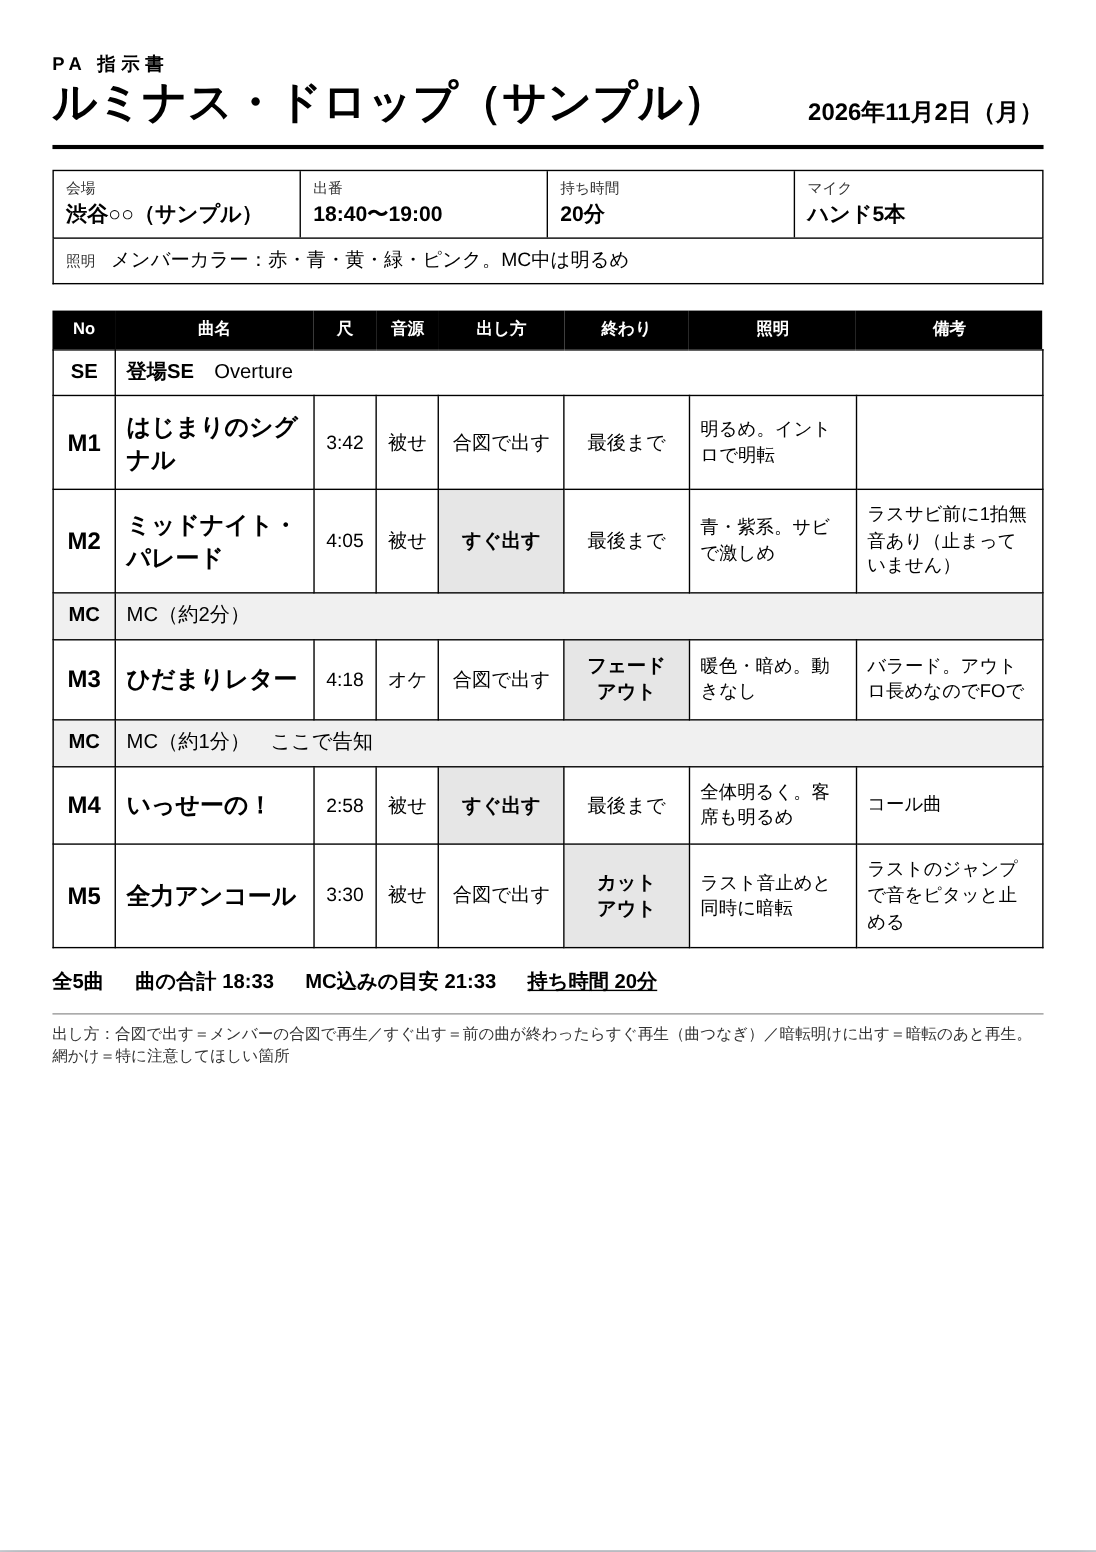
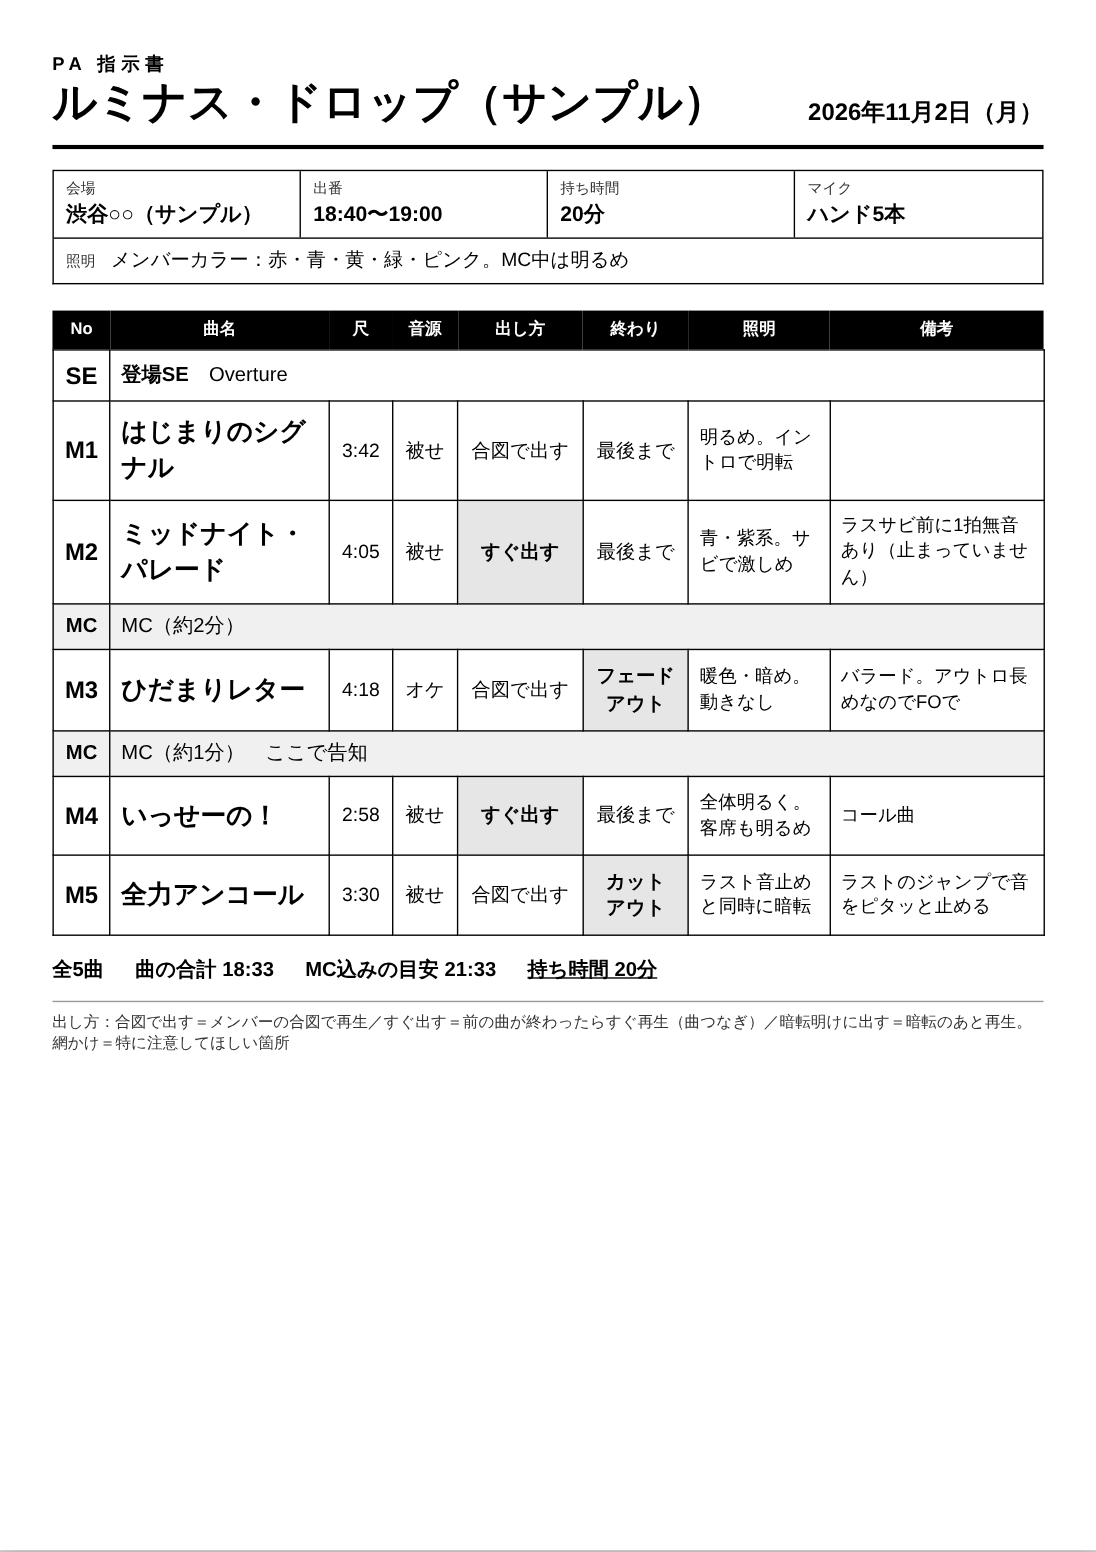
紙面の列幅を入力内容に合わせて自動調整、1枚に収まるよう段階的に詰める
Claude-Session: https://claude.ai/code/session_01DzYtgMr3bpXJikWNM9fGRw

diff --git a/index.html b/index.html
@@ -138,13 +138,12 @@ textarea{resize:vertical;min-height:110px}
 .sh-info dt{font-size:8pt;color:#333}
 .sh-info dd{margin:0;font-size:11.5pt;font-weight:700;word-break:break-all}
 .sh-list{width:100%;border-collapse:collapse;table-layout:fixed}
-.sh-list th{background:#000;color:#fff;font-size:9pt;font-weight:700;padding:1.5mm 1.5mm;text-align:center;-webkit-print-color-adjust:exact;print-color-adjust:exact}
+.sh-list th{white-space:nowrap;background:#000;color:#fff;font-size:9pt;font-weight:700;padding:1.5mm 1.5mm;text-align:center;-webkit-print-color-adjust:exact;print-color-adjust:exact}
 .sh-list td{border:.8pt solid #000;padding:2.4mm 2mm;vertical-align:middle;word-break:break-all}
 .sh-list .c{text-align:center}
 .sh-list td.c.no{font-size:13pt;font-weight:700;white-space:nowrap;padding-left:1mm;padding-right:1mm}
 .sh-list td.c{font-size:10.5pt;word-break:keep-all;overflow-wrap:anywhere}
 .sh-list .light{font-size:10pt}
-.sh-list.withlight .title{font-size:13pt}
 .sh-info+.sh-lightall{border-top:0;margin-top:-5mm}
 .sh-lightall{border:1pt solid #000;margin:0 0 5mm;padding:1.6mm 2.4mm;font-size:10.5pt;display:flex;gap:3mm;align-items:baseline}
 .sh-lightall b{font-size:8pt;font-weight:400;color:#333;flex:none}
@@ -154,8 +153,16 @@ textarea{resize:vertical;min-height:110px}
 .sh-list tr.mc td,.sh-list tr.se td{background:#f0f0f0;font-size:11pt;padding:1.6mm 2mm;-webkit-print-color-adjust:exact;print-color-adjust:exact}
 .sh-list tr.se td{background:#fff;border-style:solid}
 .sh-list .muted{color:#777;padding:8mm}
-.sheet.compact .sh-list td{padding:1.4mm 1.6mm}
-.sheet.compact .sh-list .title,.sheet.compact .sh-list .no{font-size:12pt}
+.sheet.lv1 .sh-list td{padding:1.4mm 1.6mm}
+.sheet.lv1 .sh-list .title,.sheet.lv1 .sh-list td.c.no{font-size:12pt}
+.sheet.lv2 .sh-list td{padding:.8mm 1.2mm}
+.sheet.lv2 .sh-list .title,.sheet.lv2 .sh-list td.c.no{font-size:11pt}
+.sheet.lv2 .sh-list td.c{font-size:9.5pt}
+.sheet.lv2 .sh-list .note,.sheet.lv2 .sh-list .light{font-size:9pt}
+.sheet.lv2 .sh-list tr.mc td,.sheet.lv2 .sh-list tr.se td{padding:.8mm 1.2mm;font-size:10pt}
+.sheet.lv2 .sh-top{margin-bottom:3mm}.sheet.lv2 .sh-artist{font-size:20pt}
+.sheet.lv2 .sh-info+.sh-lightall{margin-top:-3mm}
+.sheet.lv2 .sh-info{margin-bottom:3mm}.sheet.lv2 .sh-info div{min-height:0;padding:1mm 2mm}
 .sh-foot{display:flex;flex-wrap:wrap;gap:2mm 6mm;margin-top:4mm;font-size:11pt;font-weight:700}
 .sh-foot .over{color:#000;text-decoration:underline}
 .sh-legend{margin-top:3mm;font-size:8.5pt;color:#333;border-top:.6pt solid #999;padding-top:2mm}
@@ -179,6 +186,7 @@ textarea{resize:vertical;min-height:110px}
 .burn .box{border:1px solid var(--line);border-radius:10px;padding:14px 16px}
 .sh-list td .trno{display:block;font-size:7.5pt;font-weight:700;letter-spacing:.02em;margin-top:.5mm}
 #printArea{display:none}
+#sheetMeasure{position:absolute;left:-10000px;top:0;width:190mm;visibility:hidden;pointer-events:none}
 @media print{
   @page{size:A4 portrait;margin:10mm}
   body{background:#fff}
@@ -262,6 +270,7 @@ textarea{resize:vertical;min-height:110px}
           <button class="print-btn" id="printSide">🖨 印刷する</button>
         </div>
         <div class="pv" id="pv"><div class="pvinner" id="pvInner"><div class="paper" id="paper"><div class="sheet" id="sheetPv"></div></div></div></div>
+        <p class="printtip" id="pageWarn" hidden style="color:var(--warn);font-weight:700">曲が多いため、いちばん詰めても2枚になります。印刷画面の「倍率」を下げると1枚に収まります。</p>
         <p class="printtip">印刷画面では「用紙サイズ：A4」「ヘッダーとフッター：オフ」にしてください。PDFで保存したいときは、送信先を「PDFに保存」にします。</p>
       </section>
     </div>
@@ -387,6 +396,7 @@ textarea{resize:vertical;min-height:110px}
   </div>
 </main>
 
+<div id="sheetMeasure" class="sheet" aria-hidden="true"></div>
 <div id="printArea"><div class="sheet" id="sheetPrint"></div></div>
 <div class="toast" id="toast" role="status"></div>
 
@@ -549,47 +559,98 @@ $('#saved').addEventListener('click',e=>{
 });
 
 /* ── 紙面 ── */
-function sheetHTML(){
-  const sh=S.show;let n=0,rows='',count=0,tr=0;
+/* 列幅の自動調整：入力された文字の長さを測り、表全体の高さが一番低くなる幅を選ぶ */
+const SHEET_FONT='"BIZ UDPGothic","Yu Gothic","Meiryo",sans-serif';
+const mctx=document.createElement('canvas').getContext('2d');
+function tw(t,pt,bold){mctx.font=`${bold?'700 ':''}${pt*96/72}px ${SHEET_FONT}`;return mctx.measureText(String(t||'')).width*25.4/96*1.04}   // mm
+const PT=0.3528,TABLE_W=190,PAGE_H=277;
+// 詰め具合の段階（0=ふつう、1=少し詰める、2=しっかり詰める）。CSSの .lv1 .lv2 と同じ値
+const LV=[{pad:2,vpad:2.4,fT:14,fNo:13,fC:10.5,fN:10},{pad:1.6,vpad:1.4,fT:12,fNo:12,fC:10.5,fN:10},{pad:1.2,vpad:0.8,fT:11,fNo:11,fC:9.5,fN:9}];
+function layoutCols(rows,hasLight,lv){
+  const {pad,vpad,fT,fNo,fC,fN}=LV[lv],lh=1.4,edge=2*pad+0.6;
+  const parts=v=>String(v).split('|');
+  const em1=r=>r.em1,em2=r=>r.em2;
+  // 文字幅を先に測っておく
+  const m=rows.map(r=>({
+    no:tw(r.no,fNo,true),len:tw(r.len,fC),src:tw(r.source,fC),
+    st:tw(parts(r.start).join(''),fC,r.em1),stP:Math.max(...parts(r.start).map(x=>tw(x,fC,r.em1))),stN:parts(r.start).length,
+    en:tw(parts(r.end).join(''),fC,r.em2),enP:Math.max(...parts(r.end).map(x=>tw(x,fC,r.em2))),enN:parts(r.end).length,
+    title:tw(r.title,fT,true),light:tw(r.light,fN),note:(r.note.length?r.note:['']).map(x=>tw(x,fN))}));
+  const mx=(k,min)=>Math.max(min,...m.map(x=>x[k]+edge));
+  // 固定列：中身にぴったり合わせる（出し方・終わりは長すぎるときだけ2行に折る）
+  const wNo=Math.max(11,...m.map(x=>x.no+2.6));
+  const wLen=mx('len',10),wSrc=mx('src',11);
+  const wSt=mx('st',14)<=27?mx('st',14):mx('stP',14),wEn=mx('en',14)<=27?mx('en',14):mx('enP',14);
+  const rest=TABLE_W-wNo-wLen-wSrc-wSt-wEn;
+  const L=(w,col)=>Math.max(1,Math.ceil(w/Math.max(1,col-edge)));
+  const tLine=fT*PT*lh,nLine=fN*PT*lh,cLine=fC*PT*lh;
+  const fixedH=m.map((x,i)=>Math.max(fNo*PT*lh+(rows[i].tr?3:0),(x.st+edge<=wSt?1:x.stN)*cLine,(x.en+edge<=wEn?1:x.enN)*cLine));
+  const height=(wt,wl,wn)=>m.reduce((h,x,i)=>h+Math.max(fixedH[i],L(x.title,wt)*tLine,hasLight?L(x.light,wl)*nLine:0,
+    x.note.reduce((n,w)=>n+L(w,wn),0)*nLine)+2*vpad,0);
+  // 自由列（曲名・照明・備考）を1mm刻みで総当たりし、表の高さが最小になる組を選ぶ
+  const minT=24,minL=hasLight?18:0,minN=18;
+  let best=null;
+  for(let wt=minT;wt<=rest-minL-minN;wt++)
+    for(let wl=minL;wl<=(hasLight?rest-wt-minN:0);wl++){
+      const wn=rest-wt-wl,h=height(wt,wl,wn);
+      // 高さが同じなら、備考欄（PAさんの書き込み用）を広く残す
+      if(!best||h<best.h-0.01||(Math.abs(h-best.h)<=0.01&&wn>best.wn))best={h,wt,wl,wn};
+    }
+  if(!best)best={h:0,wt:Math.max(minT,rest-minL-minN),wl:minL,wn:minN};
+  return [wNo,best.wt,wLen,wSrc,wSt,wEn].concat(hasLight?[best.wl]:[],[best.wn]).map(x=>`<col style="width:${x.toFixed(1)}mm">`).join('');
+}
+function sheetHTML(lv){
+  const sh=S.show;let n=0,tr=0;
   const lightOf=it=>(it.light||'').trim()||(song(it.songId)?.light||'').trim();
   const hasLight=S.list.some(it=>it.type==='song'&&song(it.songId)&&lightOf(it));
   const span=hasLight?7:6;
-  const W={'合図で出す':'合図で<wbr>出す','すぐ出す':'すぐ<wbr>出す','暗転明けに出す':'暗転明けに<wbr>出す','最後まで':'最後<wbr>まで','フェードアウト':'フェード<wbr>アウト','カットアウト':'カット<wbr>アウト'};
-  const wb=v=>W[v]||esc(v);
+  const W={'合図で出す':'合図で|出す','すぐ出す':'すぐ|出す','暗転明けに出す':'暗転明けに|出す','最後まで':'最後|まで','フェードアウト':'フェード|アウト','カットアウト':'カット|アウト'};
+  const wb=v=>String(v).split('|').map(esc).join('<wbr>');
   const showTr=S.cdOnSheet!==false&&cdTracks().some(t=>t.file);
-  const trTag=()=>showTr?`<span class="trno">Tr${++tr}</span>`:'';
-  if(sh.seIn){rows+=`<tr class="se"><td class="c"><b>SE</b>${trTag()}</td><td colspan="${span}"><b>登場SE</b>　${esc(sh.seIn)}</td></tr>`;count++}
+  const items=[];   // {kind:'se'|'mc'|'song', ...}
+  if(sh.seIn)items.push({kind:'se',label:'登場SE',title:sh.seIn,tr:showTr?++tr:0});
   S.list.forEach(it=>{
-    count++;
-    if(it.type==='mc'){rows+=`<tr class="mc"><td class="c"><b>MC</b></td><td colspan="${span}">MC（約${it.min}分）${it.note?'　'+esc(it.note):''}</td></tr>`;return}
+    if(it.type==='mc'){items.push({kind:'mc',min:it.min,note:it.note});return}
     const s=song(it.songId);if(!s)return;n++;
     const st=it.start||s.start,en=it.end||s.end;
-    const note=[s.note,it.note].filter(Boolean).map(esc).join('<br>');
-    rows+=`<tr><td class="c no">M${n}${trTag()}</td><td class="title">${esc(s.title)}</td><td class="c">${esc(s.len)}</td><td class="c">${esc(s.source)}</td>`+
-      `<td class="c ${st==='すぐ出す'?'em':''}">${wb(st)}</td><td class="c ${en!=='最後まで'?'em':''}">${wb(en)}</td>`+
-      (hasLight?`<td class="light">${esc(lightOf(it))}</td>`:'')+`<td class="note">${note}</td></tr>`;
+    items.push({kind:'song',no:`M${n}`,tr:showTr?++tr:0,title:s.title,len:s.len,source:s.source,start:W[st]||st,end:W[en]||en,
+      em1:st==='すぐ出す',em2:en!=='最後まで',light:lightOf(it),note:[s.note,it.note].filter(Boolean)});
   });
-  if(sh.seOut){rows+=`<tr class="se"><td class="c"><b>SE</b>${trTag()}</td><td colspan="${span}"><b>退場SE</b>　${esc(sh.seOut)}</td></tr>`;count++}
-  if(!n&&!rows)rows=`<tr><td colspan="${span+1}" class="c muted">曲がまだ選ばれていません</td></tr>`;
+  if(sh.seOut)items.push({kind:'se',label:'退場SE',title:sh.seOut,tr:showTr?++tr:0});
+  const songRows=items.filter(x=>x.kind==='song');
+  const trTag=x=>x.tr?`<span class="trno">Tr${x.tr}</span>`:'';
+  // 1枚に収まらなさそうなら詰めて組む
   const info=[['会場',sh.venue],['出番',sh.slot],['持ち時間',sh.time?(/^\s*[\d０-９.]+\s*$/.test(sh.time)?`${esc(z2h(sh.time).trim())}分`:esc(sh.time)):''],['マイク',sh.mics],['当日連絡先',sh.contact]]
     .filter(x=>x[1]);
+  let rows=items.map(x=>{
+    if(x.kind==='se')return `<tr class="se"><td class="c no"><b>SE</b>${trTag(x)}</td><td colspan="${span}"><b>${x.label}</b>　${esc(x.title)}</td></tr>`;
+    if(x.kind==='mc')return `<tr class="mc"><td class="c"><b>MC</b></td><td colspan="${span}">MC（約${x.min}分）${x.note?'　'+esc(x.note):''}</td></tr>`;
+    return `<tr><td class="c no">${x.no}${trTag(x)}</td><td class="title">${esc(x.title)}</td><td class="c">${esc(x.len)}</td><td class="c">${esc(x.source)}</td>`+
+      `<td class="c ${x.em1?'em':''}">${wb(x.start)}</td><td class="c ${x.em2?'em':''}">${wb(x.end)}</td>`+
+      (hasLight?`<td class="light">${esc(x.light)}</td>`:'')+`<td class="note">${x.note.map(esc).join('<br>')}</td></tr>`;
+  }).join('');
+  if(!rows)rows=`<tr><td colspan="${span+1}" class="c muted">曲がまだ選ばれていません</td></tr>`;
   const cells=info.map(([k,v])=>`<div><dt>${k}</dt><dd>${k==='持ち時間'?v:esc(v)}</dd></div>`);
   while(cells.length%4)cells.push('<div></div>');
   const c=calc();
-  return {compact:count>13,html:`
+  return `
   <div class="sh-top"><div><div class="sh-label">PA 指示書</div><div class="sh-artist">${esc(sh.artist)||'（出演者名）'}</div></div><div class="sh-date">${jpDate(sh.date)}</div></div>
   ${cells.length?`<dl class="sh-info" style="margin-top:0">${cells.join('')}</dl>`:''}
   ${sh.lightAll?`<div class="sh-lightall"><b>照明</b>${esc(sh.lightAll)}</div>`:''}
-  <table class="sh-list${hasLight?' withlight':''}"><colgroup>${hasLight
-    ?'<col style="width:12mm"><col style="width:38mm"><col style="width:12mm"><col style="width:12mm"><col style="width:24mm"><col style="width:24mm"><col style="width:32mm"><col>'
-    :'<col style="width:13mm"><col style="width:46mm"><col style="width:13mm"><col style="width:13mm"><col style="width:26mm"><col style="width:26mm"><col>'}</colgroup>
+  <table class="sh-list"><colgroup>${layoutCols(songRows,hasLight,lv)}</colgroup>
   <thead><tr><th>No</th><th>曲名</th><th>尺</th><th>音源</th><th>出し方</th><th>終わり</th>${hasLight?'<th>照明</th>':''}<th>備考</th></tr></thead><tbody>${rows}</tbody></table>
   ${c.count?`<div class="sh-foot"><span>全${c.count}曲</span><span>曲の合計 ${fmt(c.songSec)}</span><span>MC込みの目安 ${fmt(c.songSec+c.mcSec)}</span>${c.limit?`<span class="${c.over?'over':''}">持ち時間 ${c.limit}分</span>`:''}</div>`:''}
-  <div class="sh-legend">出し方：合図で出す＝メンバーの合図で再生／すぐ出す＝前の曲が終わったらすぐ再生（曲つなぎ）／暗転明けに出す＝暗転のあと再生。　網かけ＝特に注意してほしい箇所</div>`};
+  <div class="sh-legend">出し方：合図で出す＝メンバーの合図で再生／すぐ出す＝前の曲が終わったらすぐ再生（曲つなぎ）／暗転明けに出す＝暗転のあと再生。　網かけ＝特に注意してほしい箇所</div>`;
 }
 function renderSheet(){
-  const {html,compact}=sheetHTML();
-  for(const id of ['#sheetPv','#sheetPrint']){const el=$(id);el.innerHTML=html;el.classList.toggle('compact',compact)}
+  const ms=$('#sheetMeasure'),mm=96/25.4;let lv=0,html;
+  for(;lv<LV.length;lv++){
+    html=sheetHTML(lv);ms.className='sheet lv'+lv;ms.innerHTML=html;
+    if(ms.offsetHeight/mm<=PAGE_H-2)break;
+  }
+  const over=lv>=LV.length;if(over)lv=LV.length-1;
+  for(const id of ['#sheetPv','#sheetPrint']){const el=$(id);el.className='sheet lv'+lv;el.innerHTML=html}
+  $('#pageWarn').hidden=!over;
   fit();
 }
 function fit(){
@@ -598,7 +659,7 @@ function fit(){
   paper.style.transform=`scale(${sc})`;inner.style.height=paper.offsetHeight*sc+'px';
 }
 addEventListener('resize',fit);
-if(document.fonts)document.fonts.ready.then(fit);
+if(document.fonts)document.fonts.ready.then(()=>renderSheet());
 function doPrint(){if(!S.list.length&&!confirm('セトリが空です。このまま印刷しますか？'))return;window.print()}
 $('#printTop').addEventListener('click',doPrint);$('#printSide').addEventListener('click',doPrint);
 

diff --git a/manual.html b/manual.html
@@ -222,7 +222,7 @@ footer{text-align:center;color:var(--muted);font-size:13px}
       <dt>紙の上や下にURLや日付が入ってしまう</dt>
       <dd>印刷画面の「詳細設定」で「ヘッダーとフッター」のチェックを外してください。</dd>
       <dt>曲が多くて2枚になってしまう</dt>
-      <dd>14行を超えると自動で行が詰まります。それでも収まらない時は、印刷画面の「倍率」を90%くらいにしてください。</dd>
+      <dd>列の幅は、入力した曲名や備考の長さに合わせて自動で調整され、行ができるだけ低くなるように組まれます。それでも1枚に収まらない時は、自動で文字と余白を詰めます。いちばん詰めても入らない時は印刷イメージの下に赤字でお知らせが出るので、印刷画面の「倍率」を90%くらいに下げてください。</dd>
       <dt>曲名のスペルを直したい</dt>
       <dd>「曲の登録」の一覧で直接書き換えれば、セトリと印刷イメージにもすぐ反映されます。</dd>
       <dt>「CDを作る」でフォルダが選べない</dt>
